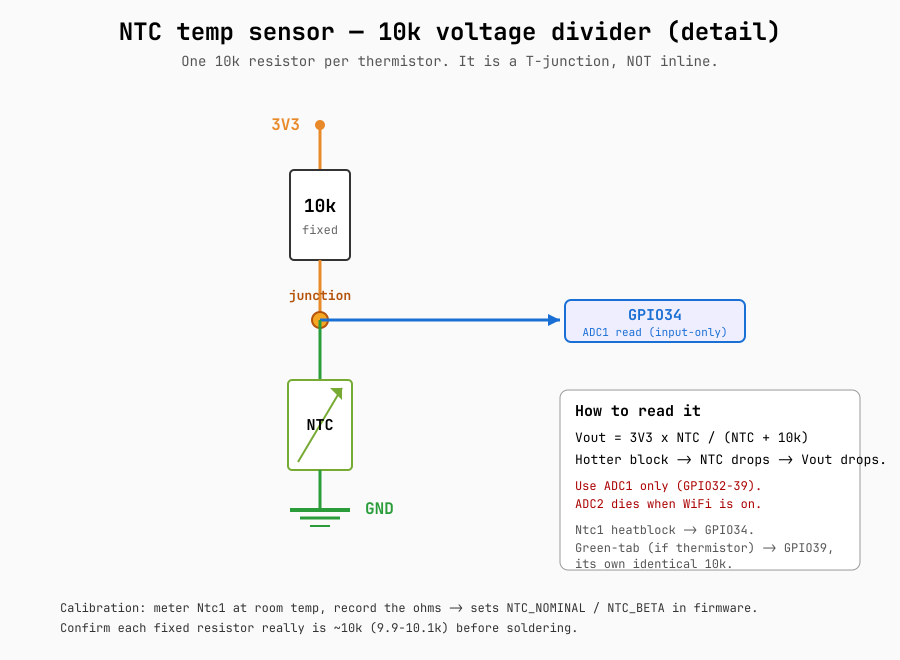
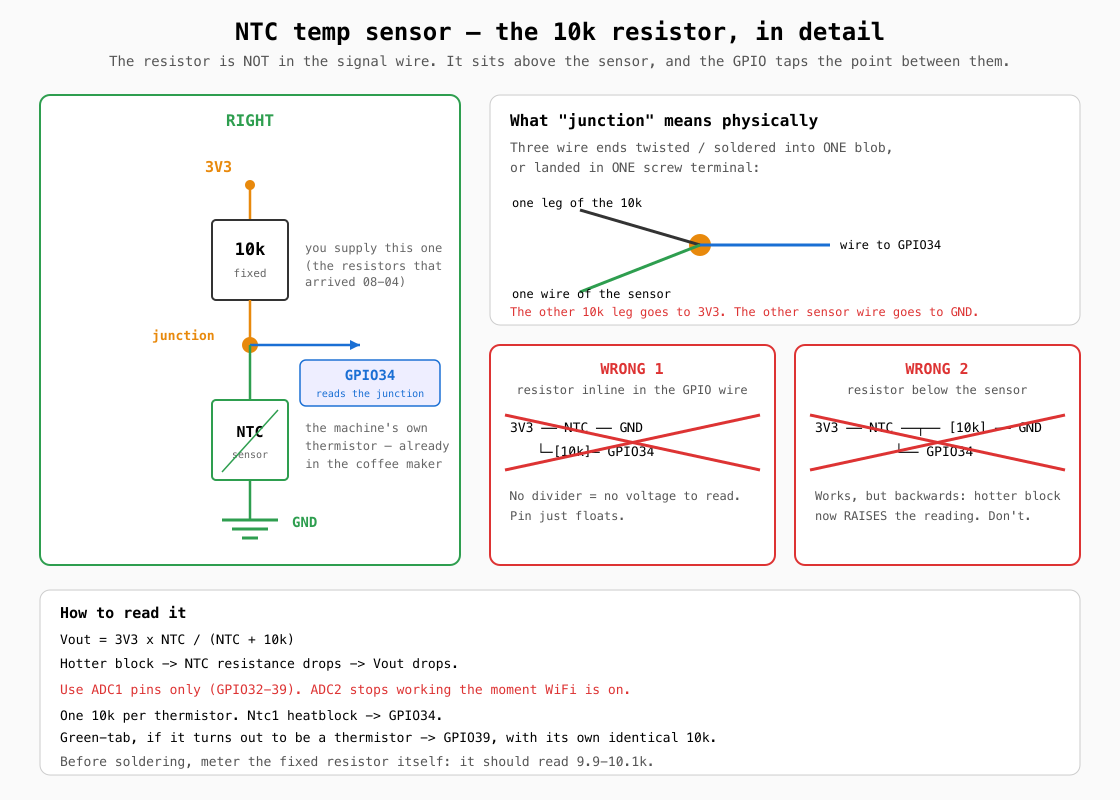
docs: split steam-cover wiring into AC and DC sheets; clarify the 10k
cover-relay.* kept as the side-by-side overview. Added two standalone
sheets so there is one unambiguous picture to follow at the bench once
the AA bump test answers AC vs DC:
- cover-ac: LINE -> COM, NO -> motor lead, other lead -> acn NEUTRAL
- cover-dc: wart (+) -> COM, NO -> motor (+), motor (-) -> wart (-),
  flyback diode across the motor, stripe toward (+); wart (-) stays off
  the ESP ground

ntc-divider rebuilt for clarity: added a panel showing what the junction
physically is (three wire ends in one blob/terminal) and two crossed-out
WRONG panels — resistor inline in the GPIO wire, and resistor below the
sensor (works but inverts the reading).

README + findings link the new sheets.

diff --git a/findings.md b/findings.md
@@ -33,7 +33,7 @@ lets us dose by volume.
 | Heater | relay (big, red wire to metal base) ✅ | GPIO25 | slow-PWM for temp control |
 | Pump motor | acmot ❓ | GPIO26 | **mains AC ✅ — 42.6 Ω, confirmed 2026-08-02** (see Resistance readings). SSR-40DA, original plan stands. Which acmot vs grinder TBD |
 | Grinder motor | acmot ❓ | GPIO27 | mains AC 🟡 (the one "main AC motor" pair observed) |
-| Steam cover | **motorized, AC vs DC TBD** 🟡 | GPIO32 (+ GPIO33 limit in) | **4th axis.** Slides cover open/closed over steam. red/black = motor drive; blue/blue = limit switch. **23.6 Ω (2026-08-02)** — same low-ohm regime as the AC pump, so **AC synchronous now leads** (earlier DC guess walked back). **Driver = 5V opto relay (8-pack received 2026-08-04), active-LOW, on GPIO32** — mechanical relay switches AC or DC, so it works either way and moots the spin test for *choosing a part*. Switch side: AC → mains; DC → wall wart. Bump test still tells which. See `docs/cover-relay.*`. |
+| Steam cover | **motorized, AC vs DC TBD** 🟡 | GPIO32 (+ GPIO33 limit in) | **4th axis.** Slides cover open/closed over steam. red/black = motor drive; blue/blue = limit switch. **23.6 Ω (2026-08-02)** — same low-ohm regime as the AC pump, so **AC synchronous now leads** (earlier DC guess walked back). **Driver = 5V opto relay (8-pack received 2026-08-04), active-LOW, on GPIO32** — mechanical relay switches AC or DC, so it works either way and moots the spin test for *choosing a part*. Switch side: AC → mains; DC → wall wart. Bump test still tells which. Wiring sheets: `docs/cover-ac.*` (hum/nothing) and `docs/cover-dc.*` (kick), overview in `docs/cover-relay.*`. |
 
 Mains: **acl / acn** = Line / Neutral ("wire to wall").
 Board has 3 relays total (2 heater-related, per red/blue-wire-to-metal-base notes).

diff --git a/README.md b/README.md
@@ -38,8 +38,10 @@ real-time loop and fails safe if the stream drops. Full design in
 | `findings.md` | Master findings — loads, sensors (with confidence tags), board decode |
 | `wiring.md` | Full wiring guide: sensors to ESP, SSRs to mains, build order |
 | `wiring.svg` / `wiring.png` | Full visual wiring diagram (everything at once) |
-| `docs/ntc-divider.*` | Detail: NTC 10k voltage-divider close-up |
-| `docs/cover-relay.*` | Detail: steam-cover 5V opto-relay wiring (AC vs DC) |
+| `docs/ntc-divider.*` | Detail: the 10k resistor — where it goes, and the two wrong ways |
+| `docs/cover-ac.*` | **Steam cover, Option A — motor is AC.** Use if the AA tap gave a hum/nothing |
+| `docs/cover-dc.*` | **Steam cover, Option B — motor is DC.** Use if the AA tap gave a kick |
+| `docs/cover-relay.*` | Steam-cover relay overview (both options side by side) |
 | `docs/architecture.md` | Two-tier roadmap: Pi-on-top + real-time streamed control |
 
 Firmware (PlatformIO `platformio.ini` + `src/main.cpp`) is planned but not yet
